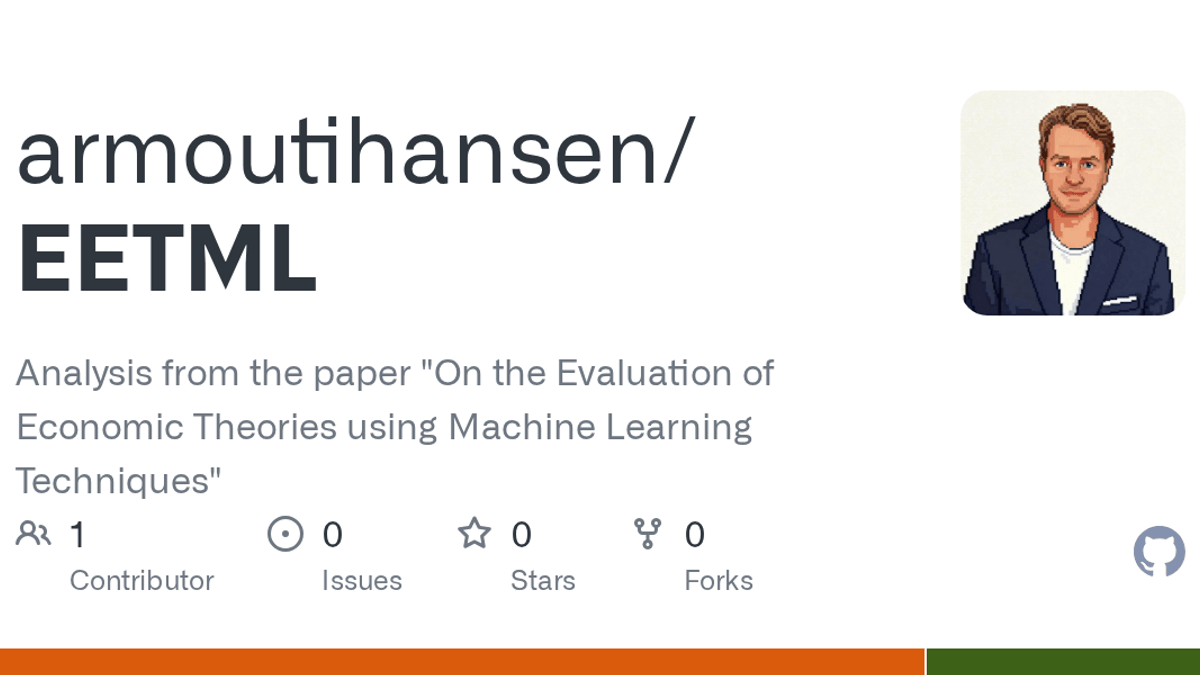
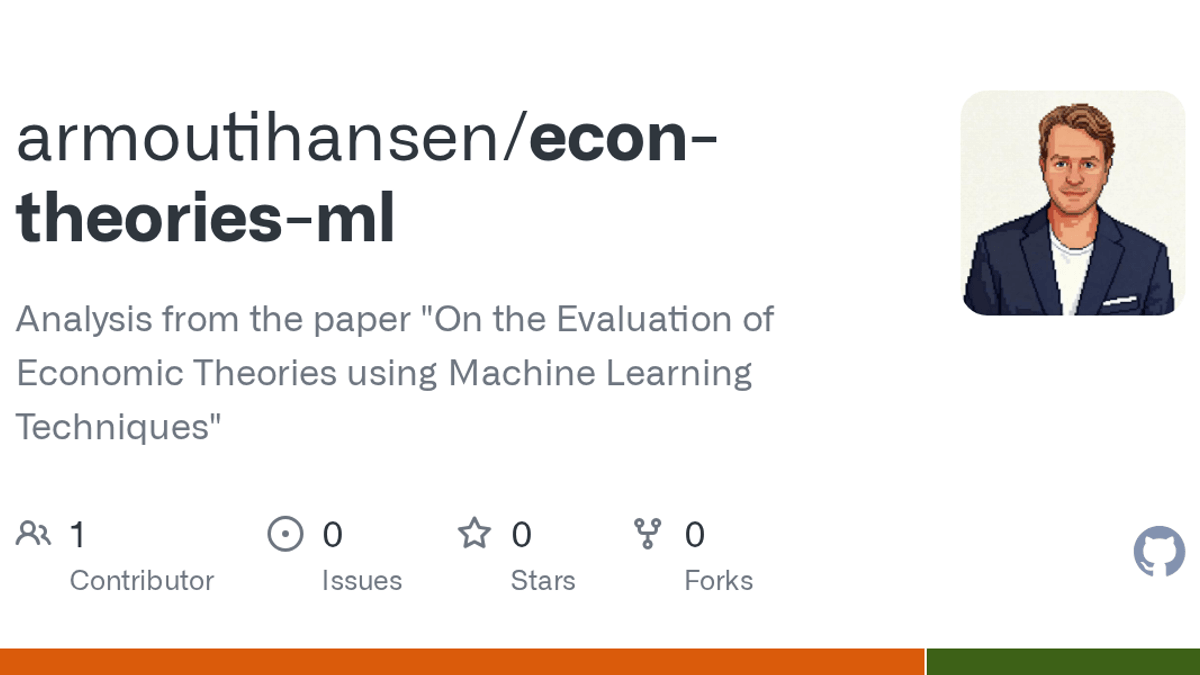
Update project links and preview images for renamed repositories (#4)
* Update commit message generation instructions

* Improve CitiBike project image alt text readability

Agent-Logs-Url: https://github.com/armoutihansen/armoutihansen.github.io/sessions/7bb63856-135e-458f-bdba-dce0ca42cfcd

---------

Changed region(s): [[0.0, 0.1556, 0.6475, 0.4978], [0.0, 0.5289, 0.6475, 0.6533], [0.0, 0.6844, 0.185, 0.7467]]

diff --git a/src/data/projects.ts b/src/data/projects.ts
@@ -19,7 +19,7 @@ export const projects = [
     methods: ["Python", "machine learning", "economic theory", "model evaluation"],
     image: "/images/projects/economic-theories-ml.png",
     imageAlt: "GitHub social preview for the Economic Theories and Machine Learning repository",
-    href: "https://github.com/armoutihansen/EETML"
+    href: "https://github.com/armoutihansen/econ-theories-ml"
   },
   {
     title: "CitiBike Demand, Risk, and Net Flow Analysis",
@@ -29,7 +29,7 @@ export const projects = [
       "Demand, risk, and net-flow analysis of CitiBike NYC from 2023 to 2025, using trip and collision data to examine usage patterns, station-level risk, and operational dynamics.",
     methods: ["data science", "data cleaning", "feature engineering", "machine learning"],
     image: "/images/projects/citibike.png",
-    imageAlt: "GitHub social preview for the CitiBike Demand, Risk, and Net Flow Analysis repository",
+    imageAlt: "GitHub social preview for the CitiBike Data Science repository",
     href: "/DSC/"
   },
   {
@@ -74,7 +74,7 @@ export const projects = [
     methods: ["Python", "Markdown", "HTML", "CSS", "unit testing"],
     image: "/images/projects/static-site-generator.png",
     imageAlt: "GitHub social preview for the Static Site Generator repository",
-    href: "https://github.com/armoutihansen/ssg"
+    href: "https://github.com/armoutihansen/static-site-generator"
   },
   {
     title: "Maze Solver",
@@ -85,7 +85,7 @@ export const projects = [
     methods: ["Python", "algorithms", "depth-first search", "pathfinding", "tkinter"],
     image: "/images/projects/maze-solver.png",
     imageAlt: "GitHub social preview for the Maze Solver repository",
-    href: "https://github.com/armoutihansen/maze_solver"
+    href: "https://github.com/armoutihansen/maze-solver"
   },
   {
     title: "Build AI Agent",